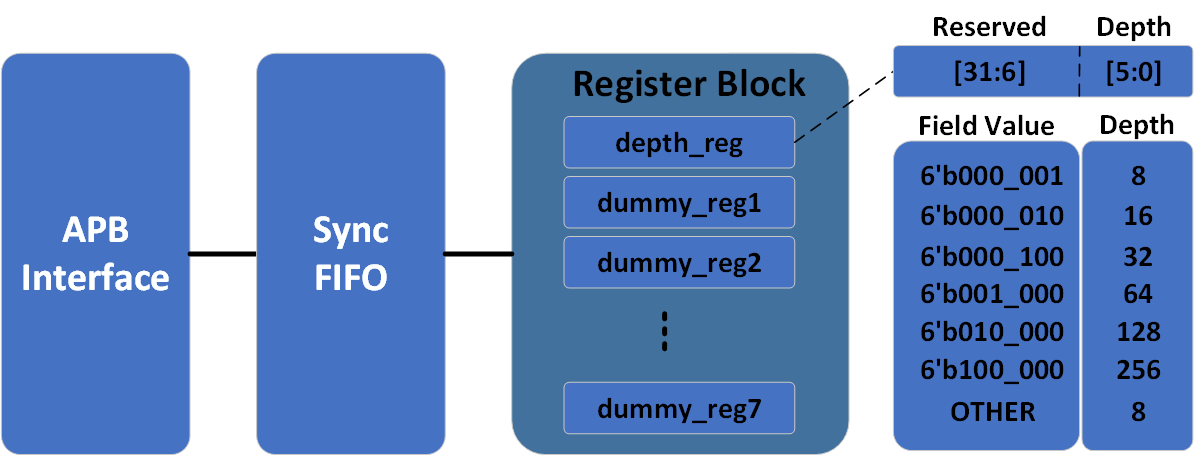
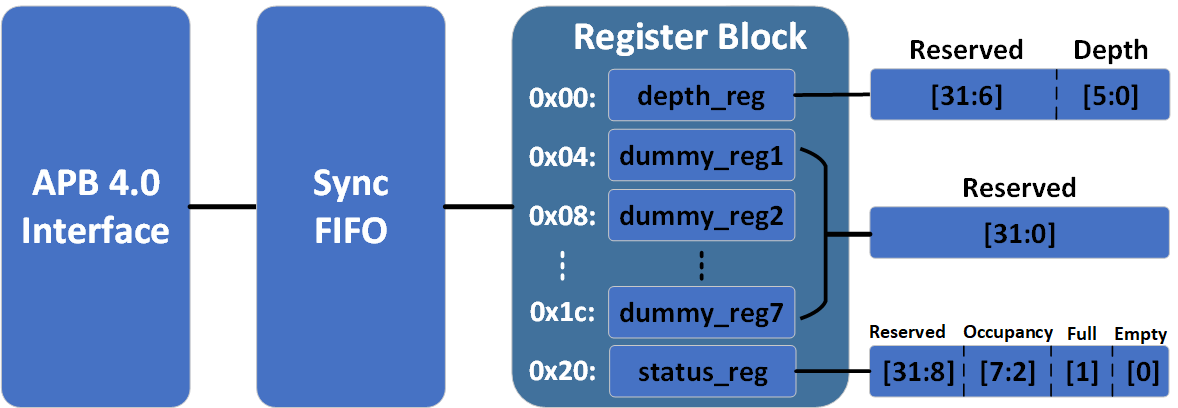
Add new register, finish more baseline tests and update readme.

diff --git a/README.md b/README.md
@@ -19,10 +19,21 @@ In addition to the test plan and functional coverage, a detailed [development lo
 </p>
 
 <div align="center">  
-DUT Structure
+<i> DUT Structure </i>
 </div>  
 
-The DUT consists of an APB register interface, a configurable-depth synchronous FIFO, and a register block with 8 memory-mapped registers. The depth_reg field controls FIFO depth, which dynamically adjusts buffer size during operation. 
+The DUT consists of an APB register interface, a configurable-depth synchronous FIFO, and a register block with 9 memory-mapped registers. The depth_reg field controls FIFO depth, which dynamically adjusts buffer size during operation. The status_reg provides runtime status of the FIFO.
+
+<p align="center">
+  <img src="./doc/depthfield.png" width="200"/>
+</p>
+
+<div align="center">  
+<i> Depth Configuration </i>
+</div>  
+
+For the depth_reg register, the depth field controls the depth of the FIFO as showed above. 
+For the status_reg register, the occupancy field keeps monitoring current items in the FIFO and the full and empty fields output the status of the FIFO.
 
 ## UVM Structure
 <p align="center">
@@ -30,7 +41,7 @@ The DUT consists of an APB register interface, a configurable-depth synchronous 
 </p>
 
 <div align="center">  
-UVM Structure
+<i> UVM Structure </i>
 </div> 
 
 The UVM environment includes a configurable agent, sequencer, driver, monitor, bfm, scoreboard, coverage collector, and register model integration via adapter and predictor. A virtual sequence and a virtual sequencer coordinate multiple functional tests including register access, FIFO write/read, and reset scenarios. The register model is fully integrated using UVM_RGM and supports frontdoor/backdoor access with coverage hooks.
@@ -50,7 +61,10 @@ The UVM environment includes a configurable agent, sequencer, driver, monitor, b
 | REG_07 | Back door write, frontdoor read              | Mixed     | Display write value                 |PASS    |make TESTID=REG_07          |
 | REG_08 | Read all dummy_regs                          | Frontdoor | Return 0x0000_0000                  |PASS    |make TESTID=REG_08          |
 | REG_09 | Mirror and compare                           | Frontdoor | Mirror matches DUT                  |PASS    |make TESTID=REG_09          |
-| REG_10 | Coverage bins                                | /         | /                                   |        |          |
+| REG_10 | Read the default value of reg9               | Frontdoor | Return 0x0000_0001                  |PASS    |make TESTID=REG_10          |
+| REG_11 | Write till full then read reg9               | Frontdoor | count=8, full=1, empty=0            |PASS    |make TESTID=REG_11          |
+| REG_12 | Write till full read one then read reg9      | Frontdoor | count=7, full=0, empty=0            |PASS    |make TESTID=REG_12          |
+| REG_xx | Coverage bins                                | /         | /                                   |        |          |
 
 </div>
 
@@ -68,7 +82,7 @@ The UVM environment includes a configurable agent, sequencer, driver, monitor, b
 | FIFO_07 | Read When empty                | 8     | Return 0x0        | PASS   |make TESTID=FIFO_07          |
 | FIFO_08 | 2x FIFO_06                     | 8     | Read Write Value  | PASS   |make TESTID=FIFO_08          |
 | FIFO_09 | PSTRB R/W Test                 | 8     | Read 0x0          | PASS   |make TESTID=FIFO_09          |
-| FIFO_10 | Coverage Bins                  | /     | /                 |        |          |
+| FIFO_xx | Coverage Bins                  | /     | /                 |        |          |
 
 </div>
 
